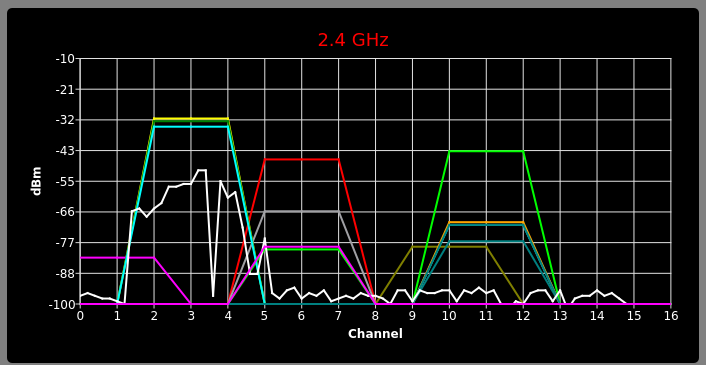
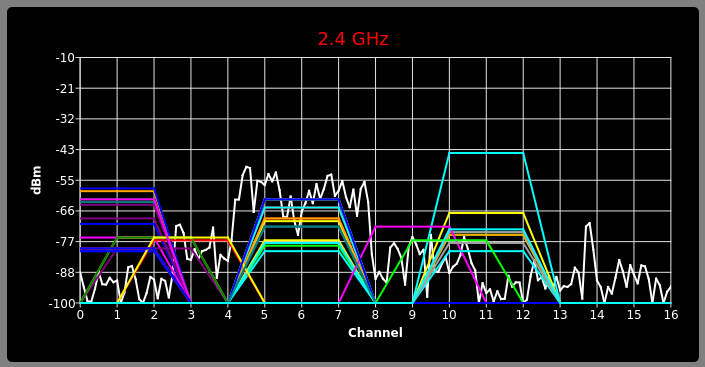
performance updates

Changed region(s): [[0.0312, 0.1507, 0.9674, 0.9342], [0.0, 0.9644, 0.9986, 0.9945], [0.4369, 0.0904, 0.5617, 0.1205]]

diff --git a/sparrow-wifi.py b/sparrow-wifi.py
@@ -2502,7 +2502,87 @@ class mainWindow(QMainWindow):
                 self.huntChannels.setEnabled(True)
                 self.combo.setEnabled(True)
 
+    def plotSSID(self, curSeries, curNet):
+        tmpssid = curNet.ssid
+        if (len(tmpssid) == 0):
+            tmpssid = '<Unknown>'
+            
+        curSeries.setName(tmpssid)
+        
+        # Both 2.4 and 5 GHz use +-2 channels for 20 MHz channels
+        channelDeltaLow = 2
+        channelDeltaHigh = 2
+        
+        # For 2.4 GHz Channels:
+        # https://en.wikipedia.org/wiki/List_of_WLAN_channels#5_GHz_.28802.11a.2Fh.2Fj.2Fn.2Fac.29
+        # See this for 5 GHz channels:
+        # http://stevencrowley.com/wp-content/uploads/2013/02/NTIA5-2.jpg
+        if curNet.bandwidth == 40:
+            if curNet.channel <= 16:
+                if curNet.secondaryChannelLocation == 'above':
+                    channelDeltaHigh = 6
+                else:
+                    channelDeltaLow = 6
+            else:
+                # 5 GHz channels for these bandwidths center up.
+                channelDeltaLow = 4
+                channelDeltaHigh = 4
+        elif curNet.bandwidth == 80:
+                # 5 GHz channels for these bandwidths center up.
+                channelDeltaLow = 8
+                channelDeltaHigh = 8
+        elif curNet.bandwidth == 160:
+                channelDeltaLow = 16
+                channelDeltaHigh = 16
+            
+        lowChannel = curNet.channel - channelDeltaLow
+        highChannel = curNet.channel + channelDeltaHigh
+        
+        if curNet.channel <= 16:
+            chartChannelLow = 0
+            chartChannelHigh = 17
+        else:
+            chartChannelLow = 30
+            chartChannelHigh = 171
+            
+        curSeries.clear()
+        
+        if lowChannel <=chartChannelLow:
+            # First point on the graph needs to be at dBm rather than -100
+            if curNet.signal >= -100:
+                curSeries.append( chartChannelLow, curNet.signal)
+            else:
+                curSeries.append(chartChannelLow, -100)
+        else:
+            # Add the zero then our plot
+            # curSeries.append(chartChannelLow, -100)
+            
+            if curNet.signal >= -100:
+                curSeries.append( lowChannel, -100)
+                curSeries.append( lowChannel, curNet.signal)
+            else:
+                curSeries.append(lowChannel, -100)
+            
+        if highChannel >= chartChannelHigh:
+            # First point on the graph needs to be at dBm rather than -100
+            if curNet.signal >= -100:
+                curSeries.append( chartChannelHigh, curNet.signal)
+            else:
+                curSeries.append(chartChannelHigh, -100)
+        else:
+            if curNet.signal >= -100:
+                curSeries.append( highChannel, curNet.signal)
+                curSeries.append( highChannel, -100)
+            else:
+                curSeries.append(highChannel, -100)
+            
+            # Add the zero then our plot
+            # curSeries.append(chartChannelHigh, -100)
+            
     def updateNet(self, curSeries, curNet, channelPlotStart, channelPlotEnd):
+        self.plotSSID(curSeries, curNet)
+        
+    def updateNetOld(self, curSeries, curNet, channelPlotStart, channelPlotEnd):
         curSeries.setName(curNet.ssid)
         
         for i in range(channelPlotStart, channelPlotEnd):
@@ -2544,8 +2624,20 @@ class mainWindow(QMainWindow):
     def update24Net(self, curSeries, curNet):
         # Loop to channel 14 + 2 for high end, + 1 for range function = 17
         self.updateNet(curSeries, curNet, 0, 17)
-        
+
     def addNet(self, newSeries, curNet, channelPlotStart, channelPlotEnd, adding5GHz):
+        self.plotSSID(newSeries, curNet)
+
+        if adding5GHz:
+            self.chart5.addSeries(newSeries)
+            newSeries.attachAxis(self.chart5axisx )
+            newSeries.attachAxis(self.chart5.axisY())
+        else:
+            self.chart24.addSeries(newSeries)
+            newSeries.attachAxis(self.chart24axisx)
+            newSeries.attachAxis(self.chart24.axisY())
+
+    def addNetOld(self, newSeries, curNet, channelPlotStart, channelPlotEnd, adding5GHz):
         for i in range(channelPlotStart, channelPlotEnd):
             graphPoint = False
             
@@ -3121,7 +3213,7 @@ class mainWindow(QMainWindow):
             curData = self.networkTable.item(i, 2).data(Qt.UserRole+1)
 
             outputFile.write(curData.macAddr  + ',' + self.networkTable.item(i, 1).text() + ',"' + curData.ssid + '",' + curData.security + ',' + curData.privacy)
-            outputFile.write(',' + str(curData.channel) + ',' + str(curData.frequency) + ',' + str(curData.signal) + ',' + str(curData.strongestsignal) + ',' + str(curData.bandwidth) + ',' +
+            outputFile.write(',' + curData.getChannelString() + ',' + str(curData.frequency) + ',' + str(curData.signal) + ',' + str(curData.strongestsignal) + ',' + str(curData.bandwidth) + ',' +
                                     curData.lastSeen.strftime("%m/%d/%Y %H:%M:%S") + ',' + curData.firstSeen.strftime("%m/%d/%Y %H:%M:%S") + ',' + 
                                     str(curData.gps.isValid) + ',' + str(curData.gps.latitude) + ',' + str(curData.gps.longitude) + ',' + str(curData.gps.altitude) + ',' + str(curData.gps.speed) + ',' + 
                                     str(curData.strongestgps.isValid) + ',' + str(curData.strongestgps.latitude) + ',' + str(curData.strongestgps.longitude) + ',' + str(curData.strongestgps.altitude) + ',' + str(curData.strongestgps.speed) + '\n')

diff --git a/wirelessengine.py b/wirelessengine.py
@@ -411,10 +411,10 @@ class WirelessNetwork(object):
         return json.dumps(dictjson)
         
     def getChannelString(self):
-        retVal = self.channel
-        
         if self.bandwidth == 40 and self.secondaryChannel > 0:
             retVal = str(self.channel) + '+' + str(self.secondaryChannel)
+        else:
+            retVal = str(self.channel)
             
         return retVal
         
